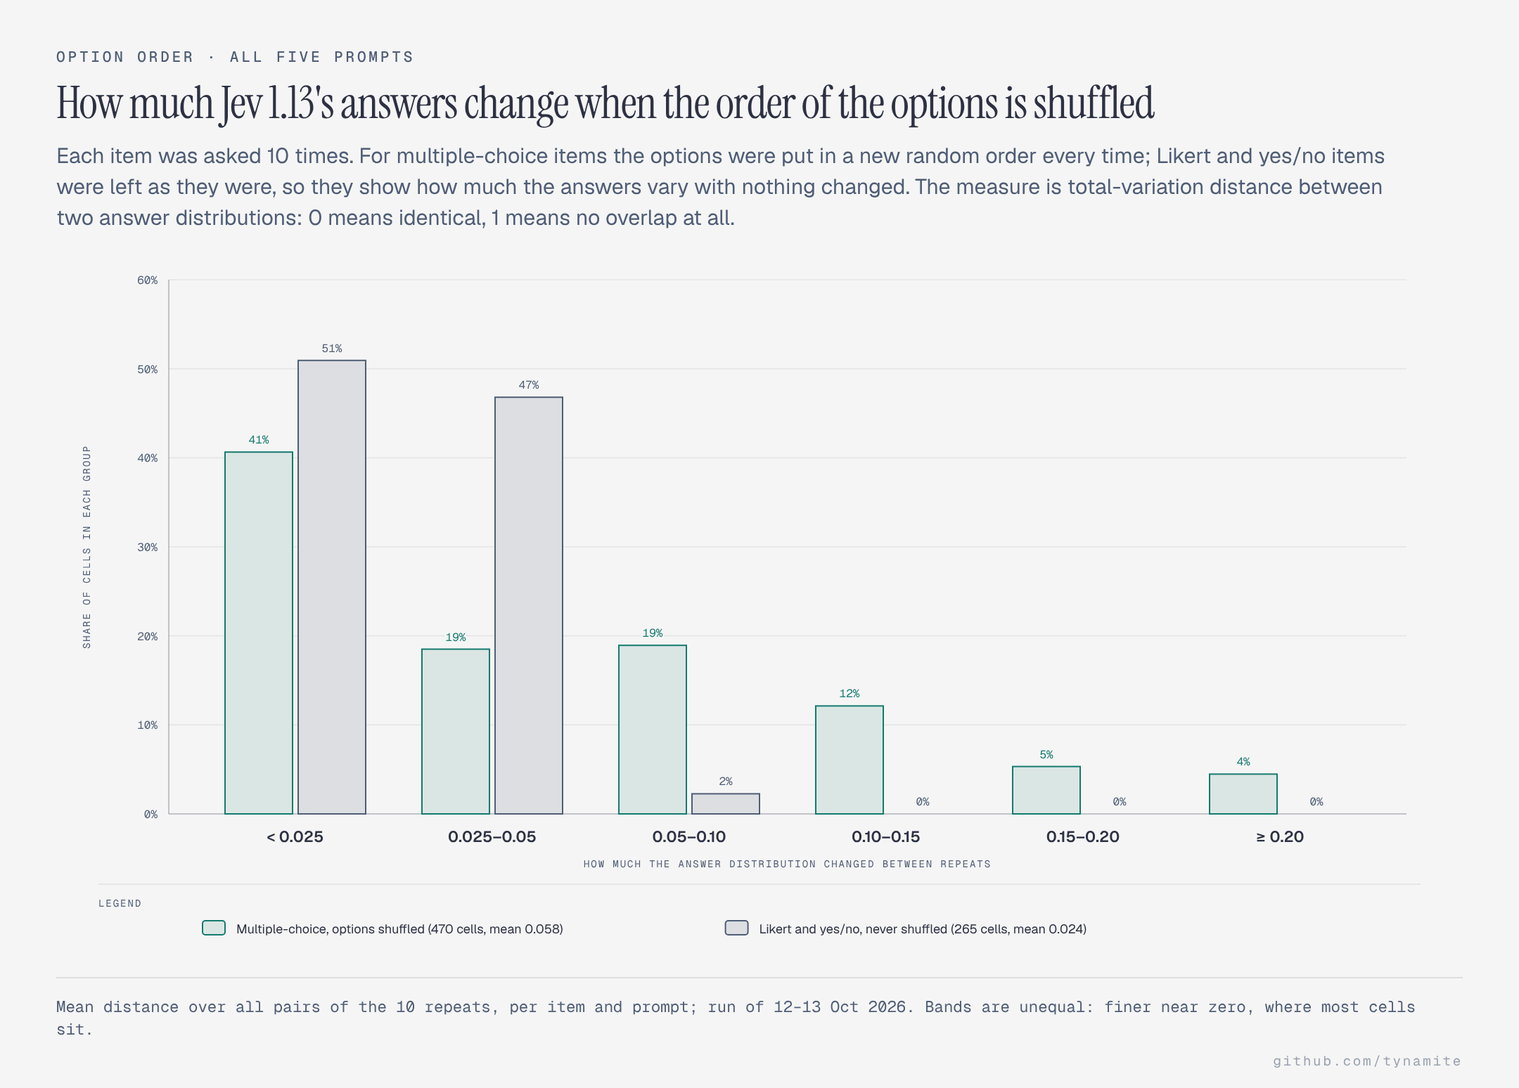
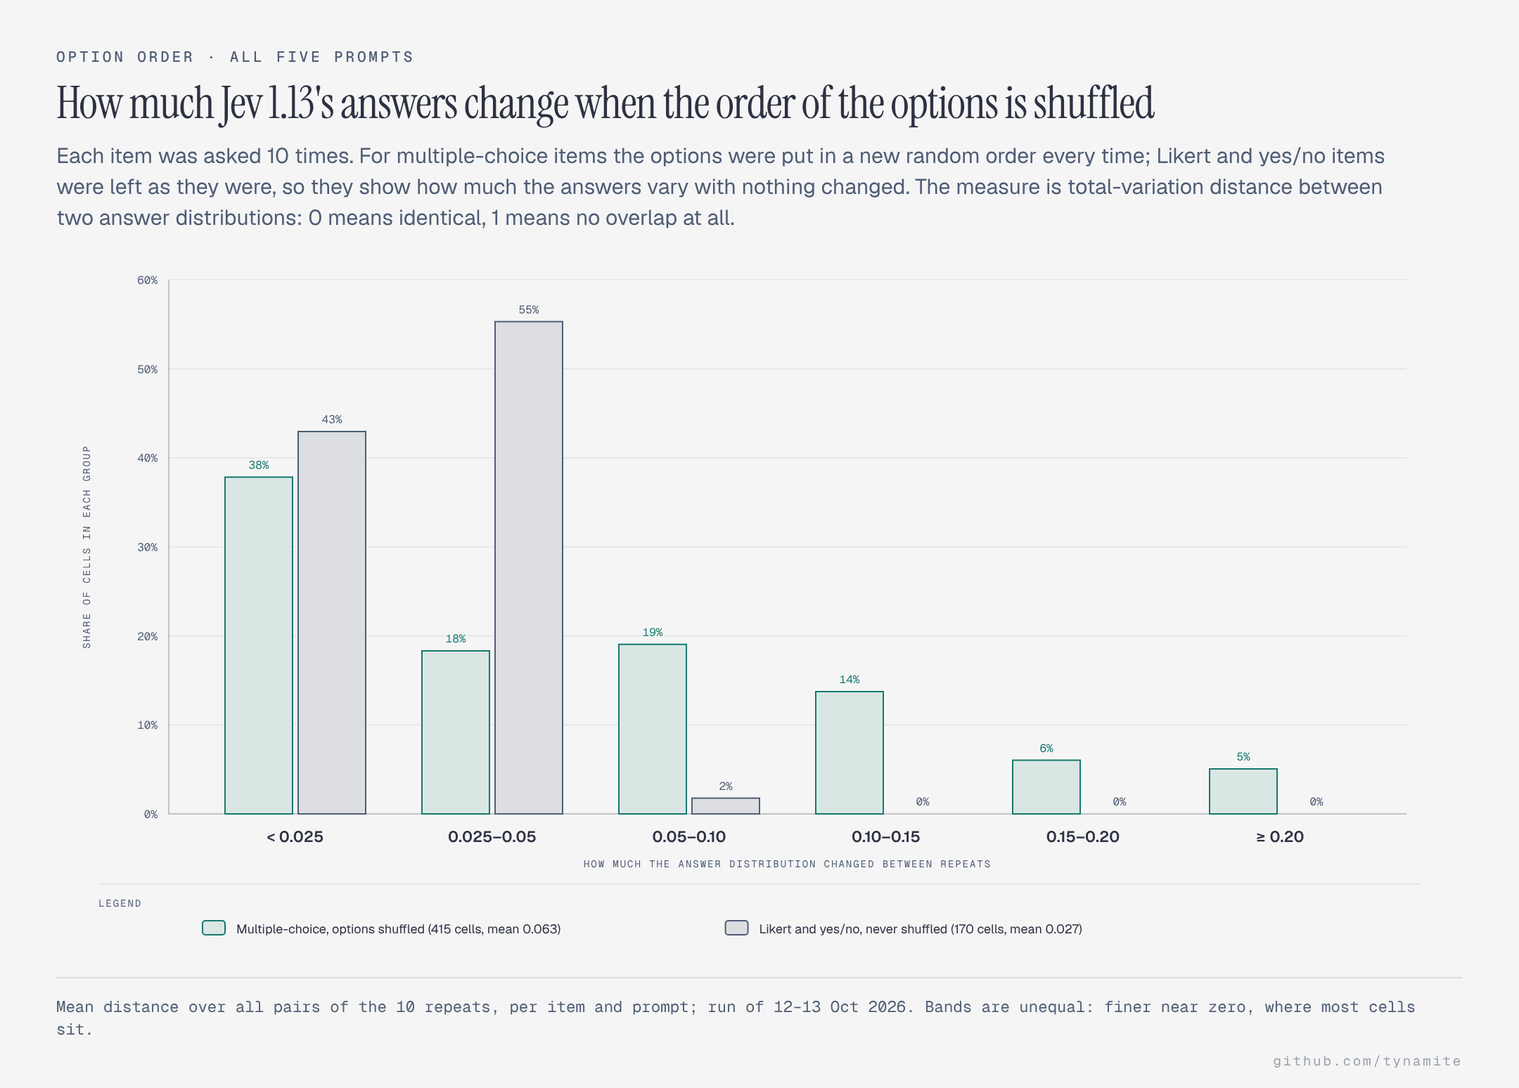
Order-effect figures: plot the core battery, as H6 is reported

diff --git a/docs/diagrams/order-effects.html b/docs/diagrams/order-effects.html
@@ -68,44 +68,44 @@
 <text x="72" y="43" fill="#4f5d75" font-size="8" font-family="'Geist Mono', ui-monospace, monospace" text-anchor="end" data-tick="y" data-value="0.6">60%</text>
 <line x1="80" y1="420" x2="960" y2="420" stroke="rgba(45,49,66,0.25)" stroke-width="1"/>
 <line x1="80" y1="40" x2="80" y2="420" stroke="rgba(45,49,66,0.25)" stroke-width="1"/>
-<rect x="120" y="162.6" width="48" height="257.4" fill="#f5f5f5"/>
-<rect data-value="0.4064" x="120" y="162.6" width="48" height="257.4" fill="rgba(21,122,110,0.12)" stroke="#157a6e" stroke-width="1"/>
-<text x="144" y="156.624" fill="#157a6e" font-size="8" font-family="'Geist Mono', ui-monospace, monospace" text-anchor="middle" stroke="#f5f5f5" stroke-width="3" paint-order="stroke">41%</text>
-<rect x="172" y="97.4" width="48" height="322.6" fill="#f5f5f5"/>
-<rect data-value="0.5094" x="172" y="97.4" width="48" height="322.6" fill="rgba(79,93,117,0.15)" stroke="#4f5d75" stroke-width="1"/>
-<text x="196" y="91.3585" fill="#4f5d75" font-size="8" font-family="'Geist Mono', ui-monospace, monospace" text-anchor="middle" stroke="#f5f5f5" stroke-width="3" paint-order="stroke">51%</text>
+<rect x="120" y="180.4" width="48" height="239.6" fill="#f5f5f5"/>
+<rect data-value="0.3783" x="120" y="180.4" width="48" height="239.6" fill="rgba(21,122,110,0.12)" stroke="#157a6e" stroke-width="1"/>
+<text x="144" y="174.402" fill="#157a6e" font-size="8" font-family="'Geist Mono', ui-monospace, monospace" text-anchor="middle" stroke="#f5f5f5" stroke-width="3" paint-order="stroke">38%</text>
+<rect x="172" y="148.0" width="48" height="272.0" fill="#f5f5f5"/>
+<rect data-value="0.4294" x="172" y="148.0" width="48" height="272.0" fill="rgba(79,93,117,0.15)" stroke="#4f5d75" stroke-width="1"/>
+<text x="196" y="142.039" fill="#4f5d75" font-size="8" font-family="'Geist Mono', ui-monospace, monospace" text-anchor="middle" stroke="#f5f5f5" stroke-width="3" paint-order="stroke">43%</text>
 <text x="170" y="440" fill="#2d3142" font-size="11" font-family="'Geist', system-ui, sans-serif" text-anchor="middle" font-weight="600">&lt; 0.025</text>
-<rect x="260" y="302.8" width="48" height="117.2" fill="#f5f5f5"/>
-<rect data-value="0.1851" x="260" y="302.8" width="48" height="117.2" fill="rgba(21,122,110,0.12)" stroke="#157a6e" stroke-width="1"/>
-<text x="284" y="296.766" fill="#157a6e" font-size="8" font-family="'Geist Mono', ui-monospace, monospace" text-anchor="middle" stroke="#f5f5f5" stroke-width="3" paint-order="stroke">19%</text>
-<rect x="312" y="123.6" width="48" height="296.4" fill="#f5f5f5"/>
-<rect data-value="0.4679" x="312" y="123.6" width="48" height="296.4" fill="rgba(79,93,117,0.15)" stroke="#4f5d75" stroke-width="1"/>
-<text x="336" y="117.648" fill="#4f5d75" font-size="8" font-family="'Geist Mono', ui-monospace, monospace" text-anchor="middle" stroke="#f5f5f5" stroke-width="3" paint-order="stroke">47%</text>
+<rect x="260" y="304.0" width="48" height="116.0" fill="#f5f5f5"/>
+<rect data-value="0.1831" x="260" y="304.0" width="48" height="116.0" fill="rgba(21,122,110,0.12)" stroke="#157a6e" stroke-width="1"/>
+<text x="284" y="298.016" fill="#157a6e" font-size="8" font-family="'Geist Mono', ui-monospace, monospace" text-anchor="middle" stroke="#f5f5f5" stroke-width="3" paint-order="stroke">18%</text>
+<rect x="312" y="69.8" width="48" height="350.2" fill="#f5f5f5"/>
+<rect data-value="0.5529" x="312" y="69.8" width="48" height="350.2" fill="rgba(79,93,117,0.15)" stroke="#4f5d75" stroke-width="1"/>
+<text x="336" y="63.8039" fill="#4f5d75" font-size="8" font-family="'Geist Mono', ui-monospace, monospace" text-anchor="middle" stroke="#f5f5f5" stroke-width="3" paint-order="stroke">55%</text>
 <text x="310" y="440" fill="#2d3142" font-size="11" font-family="'Geist', system-ui, sans-serif" text-anchor="middle" font-weight="600">0.025–0.05</text>
-<rect x="400" y="300.1" width="48" height="119.9" fill="#f5f5f5"/>
-<rect data-value="0.1894" x="400" y="300.1" width="48" height="119.9" fill="rgba(21,122,110,0.12)" stroke="#157a6e" stroke-width="1"/>
-<text x="424" y="294.071" fill="#157a6e" font-size="8" font-family="'Geist Mono', ui-monospace, monospace" text-anchor="middle" stroke="#f5f5f5" stroke-width="3" paint-order="stroke">19%</text>
-<rect x="452" y="405.7" width="48" height="14.3" fill="#f5f5f5"/>
-<rect data-value="0.0226" x="452" y="405.7" width="48" height="14.3" fill="rgba(79,93,117,0.15)" stroke="#4f5d75" stroke-width="1"/>
-<text x="476" y="399.66" fill="#4f5d75" font-size="8" font-family="'Geist Mono', ui-monospace, monospace" text-anchor="middle" stroke="#f5f5f5" stroke-width="3" paint-order="stroke">2%</text>
+<rect x="400" y="299.4" width="48" height="120.6" fill="#f5f5f5"/>
+<rect data-value="0.1904" x="400" y="299.4" width="48" height="120.6" fill="rgba(21,122,110,0.12)" stroke="#157a6e" stroke-width="1"/>
+<text x="424" y="293.438" fill="#157a6e" font-size="8" font-family="'Geist Mono', ui-monospace, monospace" text-anchor="middle" stroke="#f5f5f5" stroke-width="3" paint-order="stroke">19%</text>
+<rect x="452" y="408.8" width="48" height="11.2" fill="#f5f5f5"/>
+<rect data-value="0.0176" x="452" y="408.8" width="48" height="11.2" fill="rgba(79,93,117,0.15)" stroke="#4f5d75" stroke-width="1"/>
+<text x="476" y="402.824" fill="#4f5d75" font-size="8" font-family="'Geist Mono', ui-monospace, monospace" text-anchor="middle" stroke="#f5f5f5" stroke-width="3" paint-order="stroke">2%</text>
 <text x="450" y="440" fill="#2d3142" font-size="11" font-family="'Geist', system-ui, sans-serif" text-anchor="middle" font-weight="600">0.05–0.10</text>
-<rect x="540" y="343.2" width="48" height="76.8" fill="#f5f5f5"/>
-<rect data-value="0.1213" x="540" y="343.2" width="48" height="76.8" fill="rgba(21,122,110,0.12)" stroke="#157a6e" stroke-width="1"/>
-<text x="564" y="337.191" fill="#157a6e" font-size="8" font-family="'Geist Mono', ui-monospace, monospace" text-anchor="middle" stroke="#f5f5f5" stroke-width="3" paint-order="stroke">12%</text>
+<rect x="540" y="333.0" width="48" height="87.0" fill="#f5f5f5"/>
+<rect data-value="0.1373" x="540" y="333.0" width="48" height="87.0" fill="rgba(21,122,110,0.12)" stroke="#157a6e" stroke-width="1"/>
+<text x="564" y="327.012" fill="#157a6e" font-size="8" font-family="'Geist Mono', ui-monospace, monospace" text-anchor="middle" stroke="#f5f5f5" stroke-width="3" paint-order="stroke">14%</text>
 <rect x="592" y="420.0" width="48" height="0.0" fill="#f5f5f5"/>
 <rect data-value="0.0000" x="592" y="420.0" width="48" height="0.0" fill="rgba(79,93,117,0.15)" stroke="#4f5d75" stroke-width="1"/>
 <text x="616" y="414" fill="#4f5d75" font-size="8" font-family="'Geist Mono', ui-monospace, monospace" text-anchor="middle" stroke="#f5f5f5" stroke-width="3" paint-order="stroke">0%</text>
 <text x="590" y="440" fill="#2d3142" font-size="11" font-family="'Geist', system-ui, sans-serif" text-anchor="middle" font-weight="600">0.10–0.15</text>
-<rect x="680" y="386.3" width="48" height="33.7" fill="#f5f5f5"/>
-<rect data-value="0.0532" x="680" y="386.3" width="48" height="33.7" fill="rgba(21,122,110,0.12)" stroke="#157a6e" stroke-width="1"/>
-<text x="704" y="380.312" fill="#157a6e" font-size="8" font-family="'Geist Mono', ui-monospace, monospace" text-anchor="middle" stroke="#f5f5f5" stroke-width="3" paint-order="stroke">5%</text>
+<rect x="680" y="381.8" width="48" height="38.2" fill="#f5f5f5"/>
+<rect data-value="0.0602" x="680" y="381.8" width="48" height="38.2" fill="rgba(21,122,110,0.12)" stroke="#157a6e" stroke-width="1"/>
+<text x="704" y="375.847" fill="#157a6e" font-size="8" font-family="'Geist Mono', ui-monospace, monospace" text-anchor="middle" stroke="#f5f5f5" stroke-width="3" paint-order="stroke">6%</text>
 <rect x="732" y="420.0" width="48" height="0.0" fill="#f5f5f5"/>
 <rect data-value="0.0000" x="732" y="420.0" width="48" height="0.0" fill="rgba(79,93,117,0.15)" stroke="#4f5d75" stroke-width="1"/>
 <text x="756" y="414" fill="#4f5d75" font-size="8" font-family="'Geist Mono', ui-monospace, monospace" text-anchor="middle" stroke="#f5f5f5" stroke-width="3" paint-order="stroke">0%</text>
 <text x="730" y="440" fill="#2d3142" font-size="11" font-family="'Geist', system-ui, sans-serif" text-anchor="middle" font-weight="600">0.15–0.20</text>
-<rect x="820" y="391.7" width="48" height="28.3" fill="#f5f5f5"/>
-<rect data-value="0.0447" x="820" y="391.7" width="48" height="28.3" fill="rgba(21,122,110,0.12)" stroke="#157a6e" stroke-width="1"/>
-<text x="844" y="385.702" fill="#157a6e" font-size="8" font-family="'Geist Mono', ui-monospace, monospace" text-anchor="middle" stroke="#f5f5f5" stroke-width="3" paint-order="stroke">4%</text>
+<rect x="820" y="388.0" width="48" height="32.0" fill="#f5f5f5"/>
+<rect data-value="0.0506" x="820" y="388.0" width="48" height="32.0" fill="rgba(21,122,110,0.12)" stroke="#157a6e" stroke-width="1"/>
+<text x="844" y="381.952" fill="#157a6e" font-size="8" font-family="'Geist Mono', ui-monospace, monospace" text-anchor="middle" stroke="#f5f5f5" stroke-width="3" paint-order="stroke">5%</text>
 <rect x="872" y="420.0" width="48" height="0.0" fill="#f5f5f5"/>
 <rect data-value="0.0000" x="872" y="420.0" width="48" height="0.0" fill="rgba(79,93,117,0.15)" stroke="#4f5d75" stroke-width="1"/>
 <text x="896" y="414" fill="#4f5d75" font-size="8" font-family="'Geist Mono', ui-monospace, monospace" text-anchor="middle" stroke="#f5f5f5" stroke-width="3" paint-order="stroke">0%</text>
@@ -115,9 +115,9 @@
 <line x1="30" y1="470" x2="970" y2="470" stroke="rgba(45,49,66,0.1)" stroke-width="0.8"/>
 <text x="30" y="486" fill="#4f5d75" font-size="7" font-family="'Geist Mono', ui-monospace, monospace" text-anchor="start" letter-spacing="0.14em">LEGEND</text>
 <rect x="104" y="496" width="16" height="10" rx="2" fill="rgba(21,122,110,0.12)" stroke="#157a6e" stroke-width="1"/>
-<text x="128" y="505" fill="#2d3142" font-size="9" font-family="'Geist', system-ui, sans-serif" text-anchor="start">Multiple-choice, options shuffled (470 cells, mean 0.058)</text>
+<text x="128" y="505" fill="#2d3142" font-size="9" font-family="'Geist', system-ui, sans-serif" text-anchor="start">Multiple-choice, options shuffled (415 cells, mean 0.063)</text>
 <rect x="475.8" y="496" width="16" height="10" rx="2" fill="rgba(79,93,117,0.15)" stroke="#4f5d75" stroke-width="1"/>
-<text x="499.8" y="505" fill="#2d3142" font-size="9" font-family="'Geist', system-ui, sans-serif" text-anchor="start">Likert and yes/no, never shuffled (265 cells, mean 0.024)</text>
+<text x="499.8" y="505" fill="#2d3142" font-size="9" font-family="'Geist', system-ui, sans-serif" text-anchor="start">Likert and yes/no, never shuffled (170 cells, mean 0.027)</text>
       </svg>
     </div>
     <p class="source">Mean distance over all pairs of the 10 repeats, per item and prompt; run of 12–13 Oct 2026. Bands are unequal: finer near zero, where most cells sit.</p>

diff --git a/docs/diagrams/models-order-effects.html b/docs/diagrams/models-order-effects.html
@@ -62,33 +62,33 @@
 <text x="960" y="440" fill="#4f5d75" font-size="8" font-family="'Geist Mono', ui-monospace, monospace" text-anchor="middle" data-tick="x" data-value="0.15">0.150</text>
 <line x1="300" y1="40" x2="300" y2="420" stroke="rgba(45,49,66,0.25)" stroke-width="1"/>
 <text x="630" y="456" fill="#4f5d75" font-size="7" font-family="'Geist Mono', ui-monospace, monospace" text-anchor="middle" letter-spacing="0.14em">MEAN CHANGE IN THE ANSWER DISTRIBUTION BETWEEN REPEATS (TOTAL-VARIATION DISTANCE)</text>
-<line x1="317" y1="90" x2="316" y2="102" stroke="rgba(45,49,66,0.55)" stroke-width="1"/>
-<circle data-series="reference" data-value="0.0038" cx="317" cy="90" r="5" fill="#f5f5f5" stroke="#4f5d75" stroke-width="1.5"/>
-<circle data-series="focal" data-value="0.0036" cx="316" cy="102" r="5" fill="#157a6e" stroke="#2d3142" stroke-width="1"/>
-<text x="316.5" y="80" fill="#4f5d75" font-size="8" font-family="'Geist Mono', ui-monospace, monospace" text-anchor="middle" stroke="#f5f5f5" stroke-width="3" paint-order="stroke">0.004 · 0.004</text>
+<line x1="316" y1="90" x2="316" y2="102" stroke="rgba(45,49,66,0.55)" stroke-width="1"/>
+<circle data-series="reference" data-value="0.0036" cx="316" cy="90" r="5" fill="#f5f5f5" stroke="#4f5d75" stroke-width="1.5"/>
+<circle data-series="focal" data-value="0.0037" cx="316" cy="102" r="5" fill="#157a6e" stroke="#2d3142" stroke-width="1"/>
+<text x="316" y="80" fill="#4f5d75" font-size="8" font-family="'Geist Mono', ui-monospace, monospace" text-anchor="middle" stroke="#f5f5f5" stroke-width="3" paint-order="stroke">0.004 · 0.004</text>
 <text x="288" y="95" fill="#2d3142" font-size="11" font-family="'Geist', system-ui, sans-serif" text-anchor="end" font-weight="600">Clef</text>
-<text x="288" y="108" fill="#4f5d75" font-size="9" font-family="'Geist', system-ui, sans-serif" text-anchor="end">470 shuffled cells · 240 unshuffled</text>
-<line x1="414" y1="184" x2="557" y2="184" stroke="rgba(45,49,66,0.55)" stroke-width="1"/>
-<circle data-series="reference" data-value="0.0258" cx="414" cy="184" r="6" fill="#ff69b4" stroke="#2d3142" stroke-width="1"/>
-<circle data-series="focal" data-value="0.0584" cx="557" cy="184" r="6" fill="#a3195b" stroke="#2d3142" stroke-width="1"/>
-<text x="402" y="188" fill="#4f5d75" font-size="8" font-family="'Geist Mono', ui-monospace, monospace" text-anchor="end" stroke="#f5f5f5" stroke-width="3" paint-order="stroke">0.026</text>
-<text x="569" y="188" fill="#4f5d75" font-size="8" font-family="'Geist Mono', ui-monospace, monospace" text-anchor="start" stroke="#f5f5f5" stroke-width="3" paint-order="stroke">0.058</text>
+<text x="288" y="108" fill="#4f5d75" font-size="9" font-family="'Geist', system-ui, sans-serif" text-anchor="end">415 shuffled cells · 169 unshuffled</text>
+<line x1="417" y1="184" x2="576" y2="184" stroke="rgba(45,49,66,0.55)" stroke-width="1"/>
+<circle data-series="reference" data-value="0.0267" cx="417" cy="184" r="6" fill="#ff69b4" stroke="#2d3142" stroke-width="1"/>
+<circle data-series="focal" data-value="0.0627" cx="576" cy="184" r="6" fill="#a3195b" stroke="#2d3142" stroke-width="1"/>
+<text x="405" y="188" fill="#4f5d75" font-size="8" font-family="'Geist Mono', ui-monospace, monospace" text-anchor="end" stroke="#f5f5f5" stroke-width="3" paint-order="stroke">0.027</text>
+<text x="588" y="188" fill="#4f5d75" font-size="8" font-family="'Geist Mono', ui-monospace, monospace" text-anchor="start" stroke="#f5f5f5" stroke-width="3" paint-order="stroke">0.063</text>
 <text x="288" y="183" fill="#2d3142" font-size="11" font-family="'Geist', system-ui, sans-serif" text-anchor="end" font-weight="600">Jev 1.13</text>
-<text x="288" y="196" fill="#4f5d75" font-size="9" font-family="'Geist', system-ui, sans-serif" text-anchor="end">470 shuffled cells · 240 unshuffled</text>
-<line x1="368" y1="272" x2="585" y2="272" stroke="rgba(45,49,66,0.55)" stroke-width="1"/>
-<circle data-series="reference" data-value="0.0154" cx="368" cy="272" r="6" fill="#f5f5f5" stroke="#4f5d75" stroke-width="1.5"/>
-<circle data-series="focal" data-value="0.0648" cx="585" cy="272" r="6" fill="#157a6e" stroke="#2d3142" stroke-width="1"/>
-<text x="356" y="276" fill="#4f5d75" font-size="8" font-family="'Geist Mono', ui-monospace, monospace" text-anchor="end" stroke="#f5f5f5" stroke-width="3" paint-order="stroke">0.015</text>
-<text x="597" y="276" fill="#4f5d75" font-size="8" font-family="'Geist Mono', ui-monospace, monospace" text-anchor="start" stroke="#f5f5f5" stroke-width="3" paint-order="stroke">0.065</text>
+<text x="288" y="196" fill="#4f5d75" font-size="9" font-family="'Geist', system-ui, sans-serif" text-anchor="end">415 shuffled cells · 169 unshuffled</text>
+<line x1="357" y1="272" x2="594" y2="272" stroke="rgba(45,49,66,0.55)" stroke-width="1"/>
+<circle data-series="reference" data-value="0.0131" cx="357" cy="272" r="6" fill="#f5f5f5" stroke="#4f5d75" stroke-width="1.5"/>
+<circle data-series="focal" data-value="0.0668" cx="594" cy="272" r="6" fill="#157a6e" stroke="#2d3142" stroke-width="1"/>
+<text x="345" y="276" fill="#4f5d75" font-size="8" font-family="'Geist Mono', ui-monospace, monospace" text-anchor="end" stroke="#f5f5f5" stroke-width="3" paint-order="stroke">0.013</text>
+<text x="606" y="276" fill="#4f5d75" font-size="8" font-family="'Geist Mono', ui-monospace, monospace" text-anchor="start" stroke="#f5f5f5" stroke-width="3" paint-order="stroke">0.067</text>
 <text x="288" y="271" fill="#2d3142" font-size="11" font-family="'Geist', system-ui, sans-serif" text-anchor="end" font-weight="600">d1</text>
-<text x="288" y="284" fill="#4f5d75" font-size="9" font-family="'Geist', system-ui, sans-serif" text-anchor="end">470 shuffled cells · 240 unshuffled</text>
-<line x1="300" y1="360" x2="814" y2="360" stroke="rgba(45,49,66,0.55)" stroke-width="1"/>
+<text x="288" y="284" fill="#4f5d75" font-size="9" font-family="'Geist', system-ui, sans-serif" text-anchor="end">415 shuffled cells · 169 unshuffled</text>
+<line x1="300" y1="360" x2="799" y2="360" stroke="rgba(45,49,66,0.55)" stroke-width="1"/>
 <circle data-series="reference" data-value="0.0000" cx="300" cy="360" r="6" fill="#f5f5f5" stroke="#4f5d75" stroke-width="1.5"/>
-<circle data-series="focal" data-value="0.1167" cx="814" cy="360" r="6" fill="#157a6e" stroke="#2d3142" stroke-width="1"/>
+<circle data-series="focal" data-value="0.1133" cx="799" cy="360" r="6" fill="#157a6e" stroke="#2d3142" stroke-width="1"/>
 <text x="300" y="350" fill="#4f5d75" font-size="8" font-family="'Geist Mono', ui-monospace, monospace" text-anchor="middle" stroke="#f5f5f5" stroke-width="3" paint-order="stroke">0.000</text>
-<text x="826" y="364" fill="#4f5d75" font-size="8" font-family="'Geist Mono', ui-monospace, monospace" text-anchor="start" stroke="#f5f5f5" stroke-width="3" paint-order="stroke">0.117</text>
+<text x="811" y="364" fill="#4f5d75" font-size="8" font-family="'Geist Mono', ui-monospace, monospace" text-anchor="start" stroke="#f5f5f5" stroke-width="3" paint-order="stroke">0.113</text>
 <text x="288" y="359" fill="#2d3142" font-size="11" font-family="'Geist', system-ui, sans-serif" text-anchor="end" font-weight="600">GPT-6 Luna Decisions</text>
-<text x="288" y="372" fill="#4f5d75" font-size="9" font-family="'Geist', system-ui, sans-serif" text-anchor="end">470 shuffled cells · 240 unshuffled</text>
+<text x="288" y="372" fill="#4f5d75" font-size="9" font-family="'Geist', system-ui, sans-serif" text-anchor="end">415 shuffled cells · 169 unshuffled</text>
 <line x1="30" y1="462" x2="970" y2="462" stroke="rgba(45,49,66,0.1)" stroke-width="0.8"/>
 <text x="30" y="478" fill="#4f5d75" font-size="7" font-family="'Geist Mono', ui-monospace, monospace" text-anchor="start" letter-spacing="0.14em">LEGEND</text>
 <circle cx="104" cy="493" r="5" fill="#f5f5f5" stroke="#4f5d75" stroke-width="1.5"/>
@@ -102,7 +102,7 @@
 <text x="970" y="497" fill="#4f5d75" font-size="8" font-family="'Geist Mono', ui-monospace, monospace" text-anchor="end">ROWS BY THE SHUFFLED VALUE</text>
       </svg>
     </div>
-    <p class="source">Mean distance over all pairs of the 10 repeats, per item and prompt, on the 710 item-and-prompt cells (147 items) all four runs share. Clef varies slightly less with shuffled options than without, so it shows no order effect beyond its repeat-to-repeat noise. GPT-6 Luna Decisions&#x27; floor is 0 because it returns the identical distribution on every repeat when nothing is shuffled. All models run 12–13 Oct 2026.</p>
+    <p class="source">Mean distance over all pairs of the 10 repeats, per item and prompt, on the 584 item-and-prompt cells (117 items) all four runs share; the follow-up items are left out, as for H6. GPT-6 Luna Decisions&#x27; floor is 0 because it returns the identical distribution on every repeat when nothing is shuffled. All models run 12–13 Oct 2026.</p>
     <p class="mark" aria-hidden="true">github.com/tynamite</p>
   </div>
 </body>

diff --git a/src/jevbench/diagrams.py b/src/jevbench/diagrams.py
@@ -2350,9 +2350,9 @@ def fig_models_dictator(runs: dict[str, pd.DataFrame]) -> Figure:
 
 
 def fig_models_order(runs: dict[str, pd.DataFrame]) -> Figure:
-    from .analysis import order_effects
+    from .analysis import core_order_cells, order_effects
 
-    odfs = {m: order_effects(runs[m]) for m, _c in MAIN_MODELS}
+    odfs = {m: core_order_cells(order_effects(runs[m])) for m, _c in MAIN_MODELS}
 
     # A refusal can drop a single cell (GPT-6 Luna Decisions refuses some
     # follow-up items), so average every model over the same (item, prompt) cells.
@@ -2401,7 +2401,8 @@ def fig_models_order(runs: dict[str, pd.DataFrame]) -> Figure:
         height=510,
         body=body,
         source=f"Mean distance over all pairs of the 10 repeats, per item and prompt, on the {len(common)} item-and-"
-        f"prompt cells ({len(items)} items) all four runs share. {_order_notes(rows)}"
+        f"prompt cells ({len(items)} items) all four runs share; the follow-up items are left out, as "
+        f"for H6. {_order_notes(rows)}"
         "All models run 12–13 Oct 2026.",
     )
 
@@ -2431,10 +2432,10 @@ def build_diagrams(
     out_dir: Path,
     raw_dir: Path | None = None,
 ) -> list[Path]:
-    from .analysis import load_records
+    from .analysis import core_order_cells, load_records
 
     sdf = pd.read_csv(tables_dir / "statistics.csv")
-    odf = pd.read_csv(tables_dir / "order_effects.csv")
+    odf = core_order_cells(pd.read_csv(tables_dir / "order_effects.csv"))
     fdf = pd.read_csv(comparison_dir / "fidelity.csv")
     mdf = pd.read_csv(comparison_dir / "measures.csv")
     df = load_records(run_path)

diff --git a/scripts/check_figure_layout.py b/scripts/check_figure_layout.py
@@ -29,7 +29,13 @@ ROOT = Path(__file__).resolve().parents[1]
 sys.path.insert(0, str(ROOT / "src"))
 
 from jevbench import plots  # noqa: E402
-from jevbench.analysis import compute_stats, load_records, order_effects, primary_run  # noqa: E402
+from jevbench.analysis import (  # noqa: E402
+    compute_stats,
+    core_order_cells,
+    load_records,
+    order_effects,
+    primary_run,
+)
 
 # Ignore sub-pixel touching; only report overlaps a reader would notice.
 MIN_OVERLAP_PX = 2.0
@@ -87,7 +93,7 @@ def main(argv: list[str]) -> int:
         return 1
     df = load_records(run)
     sdf = pd.DataFrame([asdict(s) for s in compute_stats(df)])
-    odf = order_effects(df)
+    odf = core_order_cells(order_effects(df))
     # Draw into a scratch directory: this only measures layout, and must not
     # leave files beside the committed figures.
     out = Path(tempfile.mkdtemp(prefix="jevbench-layout-"))

diff --git a/src/jevbench/plots.py b/src/jevbench/plots.py
@@ -33,7 +33,13 @@ from matplotlib.axes import Axes
 from matplotlib.figure import Figure
 from matplotlib.lines import Line2D
 
-from .analysis import compute_stats, distributions, load_records, order_effects
+from .analysis import (
+    compute_stats,
+    core_order_cells,
+    distributions,
+    load_records,
+    order_effects,
+)
 from .benchmarks import BENCHMARKS
 
 SURFACE = "#fcfcfb"
@@ -889,7 +895,7 @@ def build_figures(run_path: Path, out_dir: Path) -> list[Path]:
     out_dir.mkdir(parents=True, exist_ok=True)
     df = load_records(run_path)
     sdf = pd.DataFrame([asdict(s) for s in compute_stats(df)])
-    odf = order_effects(df)
+    odf = core_order_cells(order_effects(df))
     maybe_paths: list[Path | None] = [
         fig_vs_human(sdf, out_dir),
         fig_gap(sdf, out_dir),

diff --git a/src/jevbench/analysis.py b/src/jevbench/analysis.py
@@ -1248,6 +1248,11 @@ def h4_summary(table: pd.DataFrame) -> dict[str, float | int | None]:
     }
 
 
+def core_order_cells(odf: pd.DataFrame) -> pd.DataFrame:
+    """The order-effect cells H6 is about: the core battery, without the follow-up items."""
+    return odf[~odf["followup"].astype(bool)] if "followup" in odf.columns else odf
+
+
 def _order_split(odf: pd.DataFrame) -> dict[str, float | None]:
     """Mean order effect and noise floor for the core battery and the follow-up items."""
     out: dict[str, float | None] = {}
